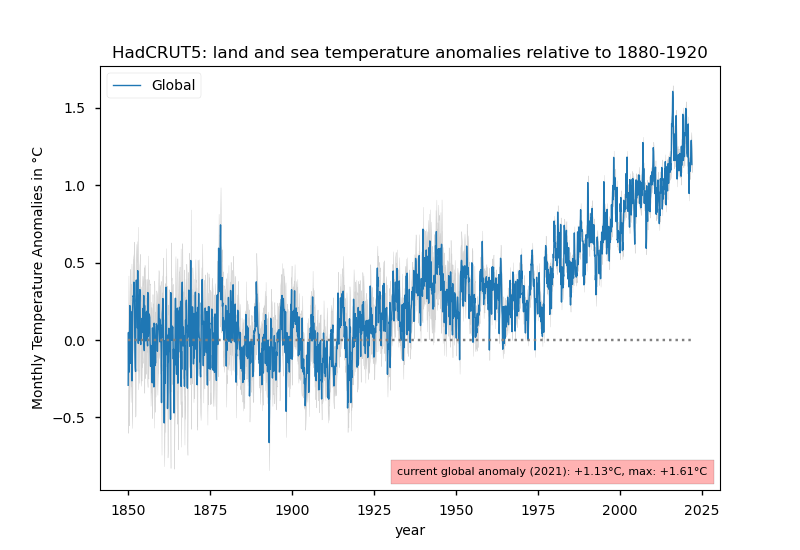
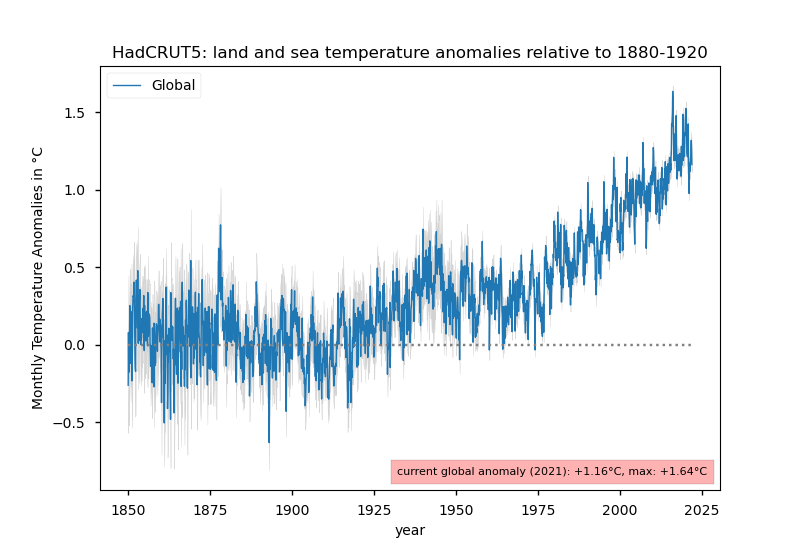
Fix temperatures mean calculation for period 1880-1920

diff --git a/hadcrut5lib.py b/hadcrut5lib.py
@@ -71,7 +71,7 @@ class HadCRUT5:
             raise Exception(("Unsupported time series type \"{}\""
                              .format(datatype)))
         if period not in self._VALID_PERIODS:
-            raise Exception(("Unsupported reference period: {}"
+            raise Exception(("Unsupported reference period: \"{}\""
                              .format(period)))
 
         # will be populated by datasets_load()
@@ -152,7 +152,7 @@ class HadCRUT5:
                 norm_temp = np.mean(temperatures[:50*factor])
             elif self._period == "1880-1920":
                 # We have to skip the first 30 years here
-                norm_temp = np.mean(temperatures[30*factor:41*factor])
+                norm_temp = np.mean(temperatures[30*factor:70*factor+1])
             else:
                 # this should never happen...
                 raise Exception(("Unsupported period \"{}\"".format(self._period)))
